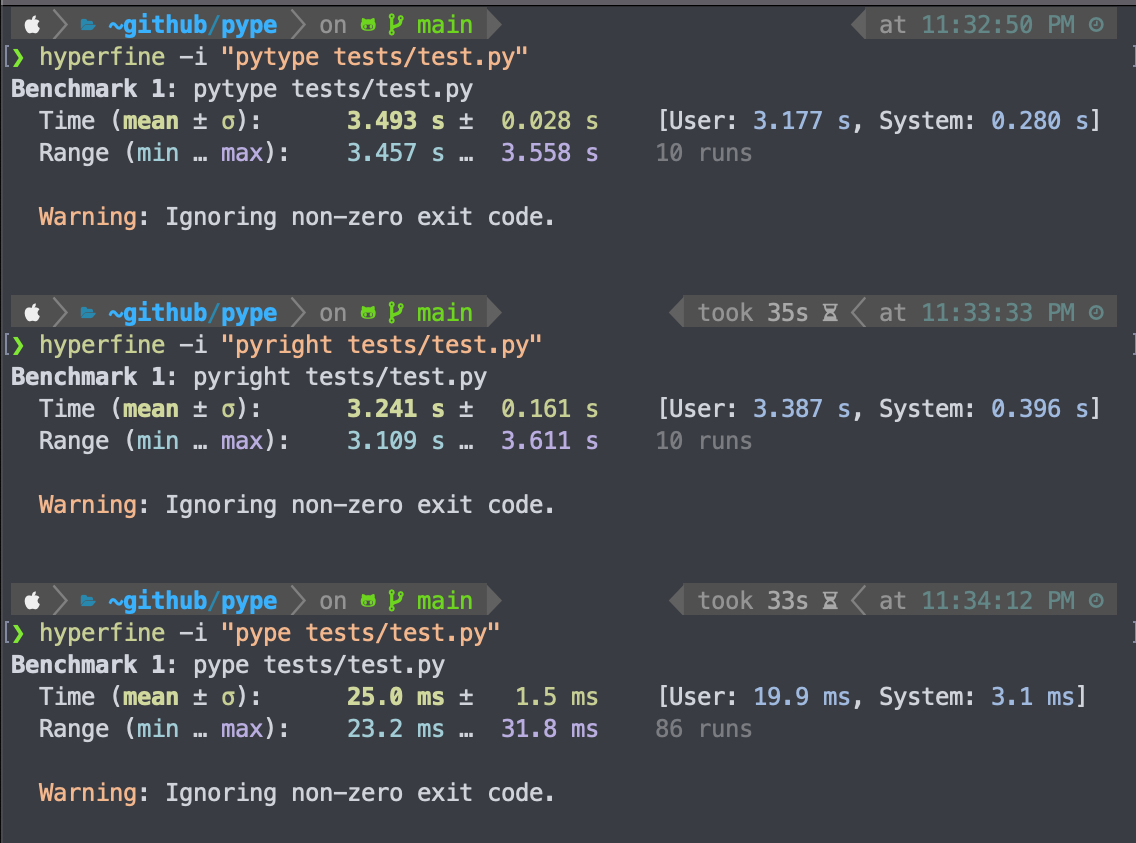
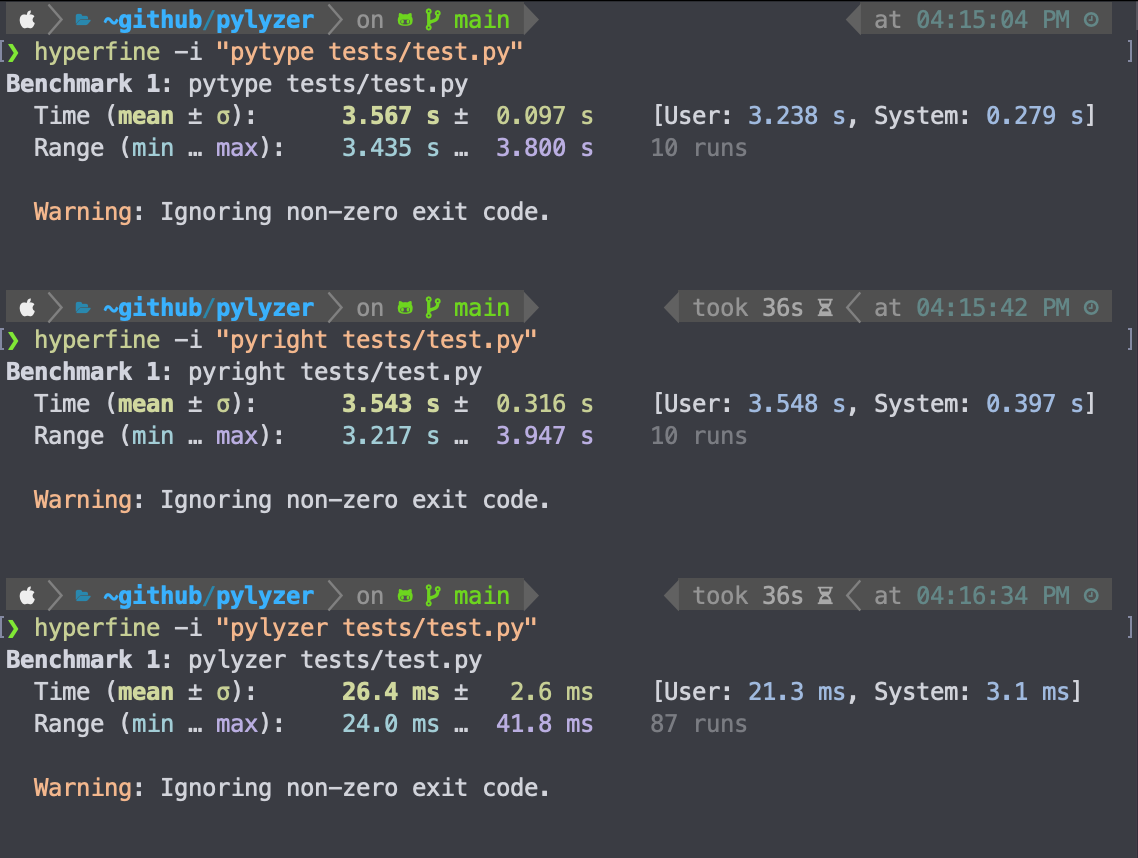
Update descriptions

diff --git a/README.md b/README.md
@@ -27,13 +27,13 @@ or download the binary from [the releases page](https://github.com/mtshiba/pylyz
 
 * Performance
 
-pylyzer can inspect Python scripts on average __100 times faster__ than pytype and pyright. This is largely due to the fact that pylyzer is implemented in Rust, whereas pytype is implemented in Python.
+On average, pylyzer can inspect Python scripts more than __100 times faster__ than pytype and pyright [<sup id="f1">1</sup>](#1). This is largely due to the fact that pylyzer is implemented in Rust.
 
 ![performance](https://raw.githubusercontent.com/mtshiba/pylyzer/main/images/performance.png)
 
 * Detailed analysis
 
-pylyzer can do more than the usual type testing. For example, it can detect out-of-bounds accesses to lists and accesses to nonexistent keys in dicts.
+pylyzer can do more than the type checking. For example, it can detect out-of-bounds accesses to lists and accesses to nonexistent keys in dicts.
 
 ![analysis](https://raw.githubusercontent.com/mtshiba/pylyzer/main/images/analysis.png)
 
@@ -50,13 +50,13 @@ This language is a transpiled language that targets Python, and has a static typ
 
 pylyzer converts Python ASTs to Erg ASTs and passes them to Erg's type checker. It then displays the results with appropriate modifications.
 
-## Limitation
+## Limitations
 
 * pylyzer's type inspector only assumes (potentially) statically typed code, so you cannot check any code uses reflections, such as `exec`, `setattr`, etc.
 
 * Type checking of compound types such as Union types is not supported yet (will be implemented soon).
 
-* pylyzer has its own type declarations for the Python standard APIs. Typing of all APIs is not complete and may result in an error that such an API does not exist.
+* pylyzer (= Erg's type system) has its own type declarations for the Python standard APIs. Typing of all APIs is not complete and may result in an error that such an API does not exist.
 
 ## TODOs
 
@@ -74,3 +74,5 @@ pylyzer converts Python ASTs to Erg ASTs and passes them to Erg's type checker. 
 * [x] local scripts resolving
 * [ ] local packages resolving
 * [ ] compound type checking
+
+<span id="1" style="font-size:x-small"><sup>1</sup> The performance test was conducted on MacBook (Early 2016) with 1.1 GHz Intel Core m3 processor and 8 GB 1867 MHz LPDDR3 memory.[↩](#f1)</span>
